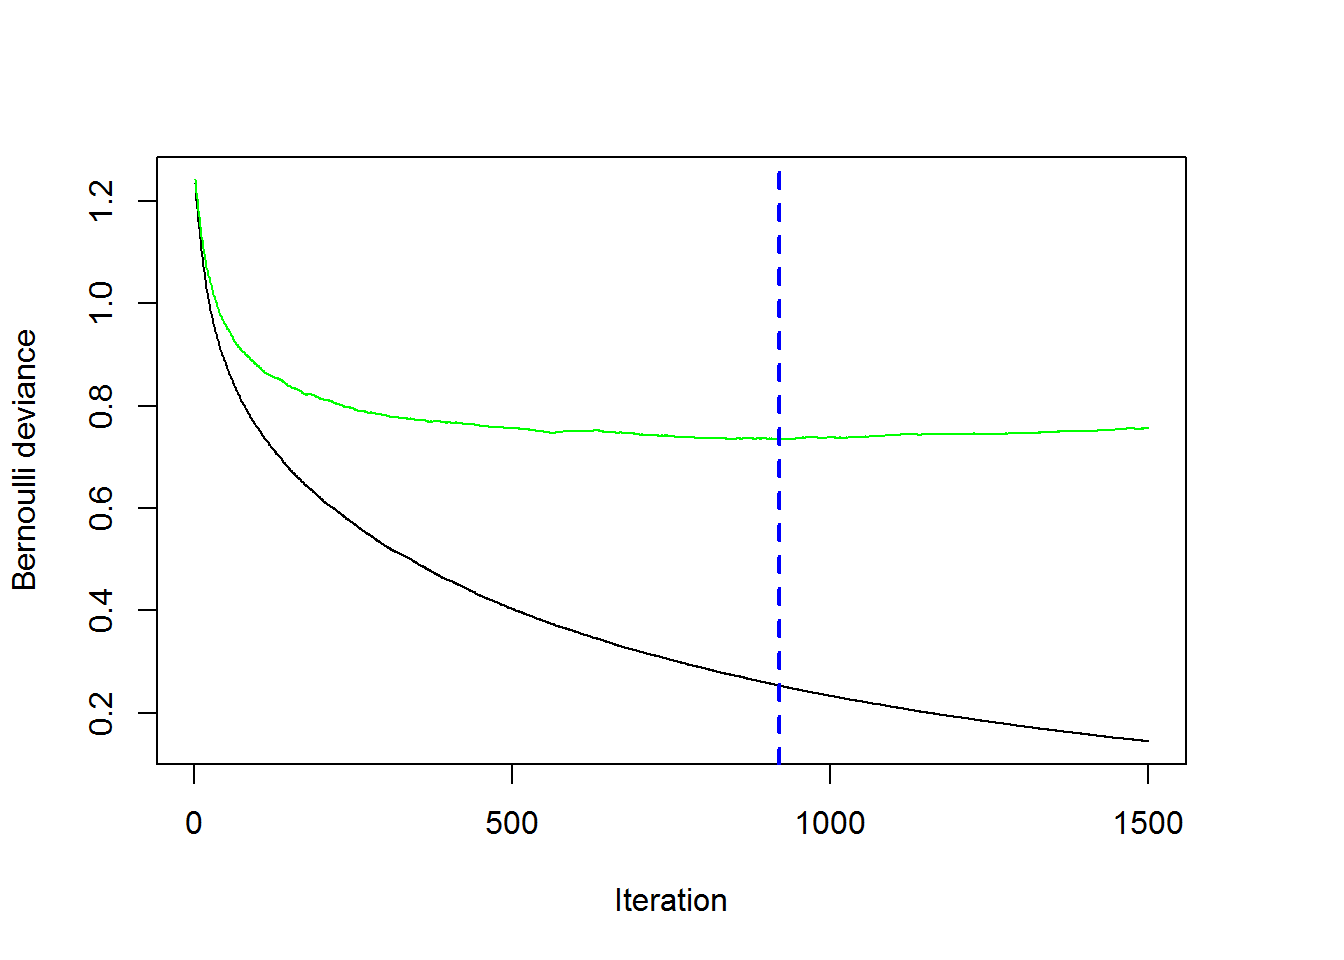
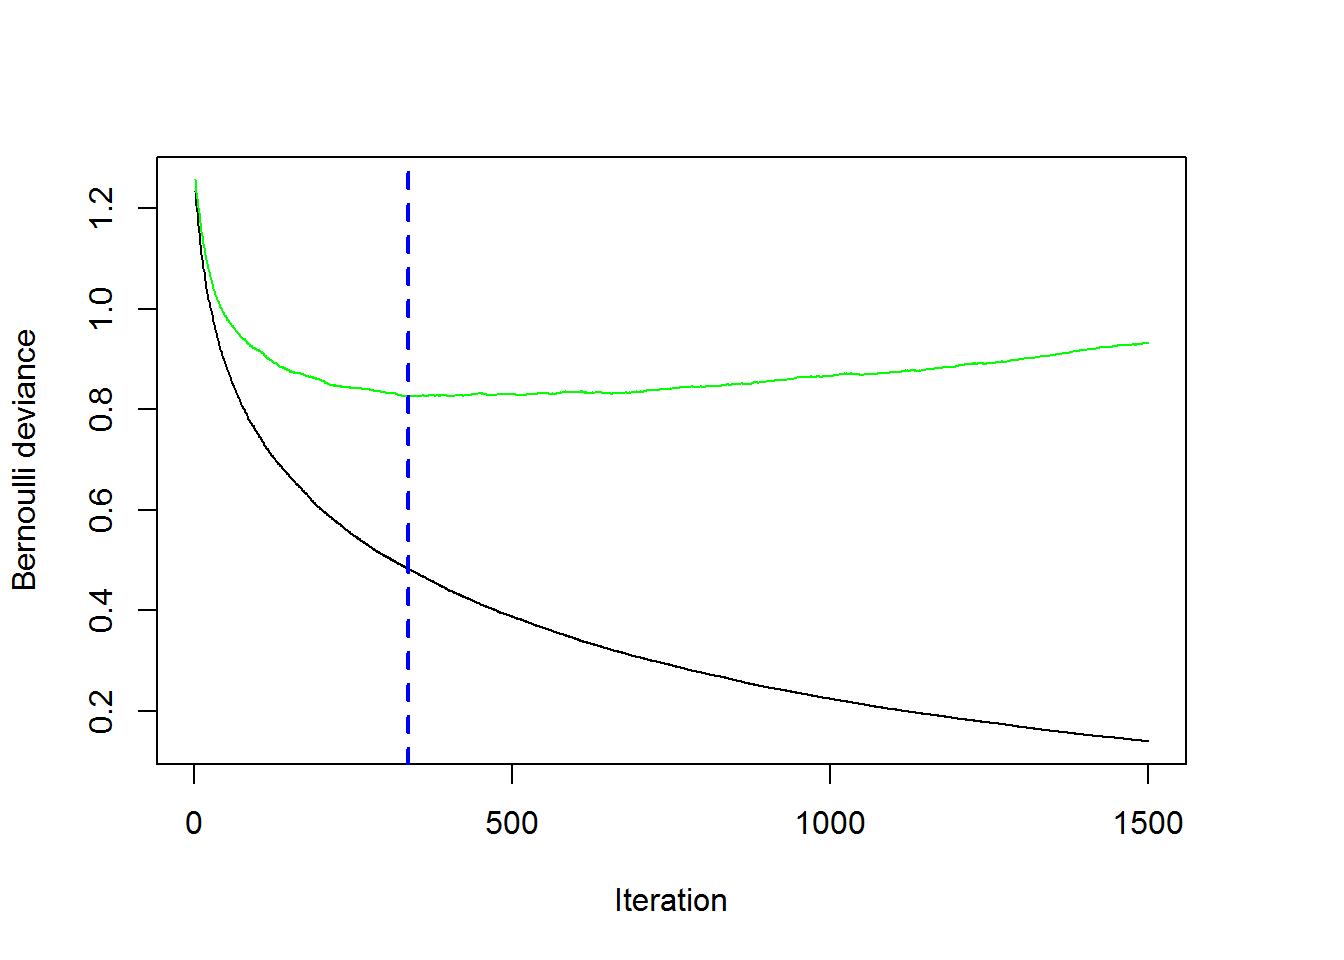
update to pkgdown docs

diff --git a/docs/articles/usage_of_the_personalized_package.html b/docs/articles/usage_of_the_personalized_package.html
@@ -51,10 +51,10 @@
     <div id="navbar" class="navbar-collapse collapse">
       <ul class="nav navbar-nav">
         <li>
-  <a href="../reference/index.html">Reference</a>
+  <a href="../articles/usage_of_the_personalized_package.html">Intro</a>
 </li>
 <li>
-  <a href="../articles/index.html">Articles</a>
+  <a href="../reference/index.html">Reference</a>
 </li>
       </ul>
       
@@ -242,6 +242,16 @@ validation</code></pre></div>
 </div>
 <div id="continuous-outcomes" class="section level3">
 <h3>Continuous Outcomes</h3>
+<div class="sourceCode"><pre class="sourceCode r"><code class="sourceCode r">subgrp.gbm &lt;-<span class="st"> </span><span class="kw">fit.subgroup</span>(<span class="dt">x =</span> x, <span class="dt">y =</span> y,
+                           <span class="dt">trt =</span> trt,
+                           <span class="dt">propensity.func =</span> prop.func,
+                           <span class="dt">family =</span> <span class="st">&quot;gaussian&quot;</span>,
+                           <span class="dt">loss =</span> <span class="st">&quot;sq_loss_gbm&quot;</span>,
+                           <span class="dt">shrinkage =</span> <span class="fl">0.025</span>,  <span class="co"># options for gbm</span>
+                           <span class="dt">n.trees =</span> <span class="dv">1500</span>, 
+                           <span class="dt">interaction.depth =</span> <span class="dv">3</span>,
+                           <span class="dt">cv.folds =</span> <span class="dv">5</span>)    </code></pre></div>
+<p><img src="usage_of_the_personalized_package_files/figure-html/contin_example-1.png" width="672" /></p>
 </div>
 <div id="binary-outcomes" class="section level3">
 <h3>Binary Outcomes</h3>
@@ -272,15 +282,15 @@ y.binary &lt;-<span class="st"> </span><span class="dv">1</span> *<span class="s
 ## 
 ## Average Outcomes:
 ##                Recommended Trt Recommended Ctrl
-## Received Trt  0.4505 (n = 333) 0.2179 (n = 257)
-## Received Ctrl 0.1858 (n = 226) 0.4565 (n = 184)
+## Received Trt  0.4662 (n = 311) 0.2079 (n = 279)
+## Received Ctrl 0.1727 (n = 220) 0.4579 (n = 190)
 ## 
 ##  Trt  Effect Among Recommended Trt Ctrl Effect Among Recommended Ctrl 
-##                   0.2646 (n = 559)                   0.2386 (n = 441) 
+##                   0.2935 (n = 531)                     0.25 (n = 469) 
 ## 
 ## Benefit score quantiles: 
 ##       0%      25%      50%      75%     100% 
-## -1.71039 -0.31334  0.07145  0.44287  1.55721</code></pre>
+## -1.70555 -0.34095  0.05583  0.43790  1.65791</code></pre>
 <div class="sourceCode"><pre class="sourceCode r"><code class="sourceCode r">subgrp.bin2</code></pre></div>
 <pre><code>## family:  binomial 
 ## loss:    logistic_loss_gbm 
@@ -288,15 +298,15 @@ y.binary &lt;-<span class="st"> </span><span class="dv">1</span> *<span class="s
 ## 
 ## Average Outcomes:
 ##                Recommended Trt Recommended Ctrl
-## Received Trt  0.9902 (n = 204) 0.0104 (n = 386)
-## Received Ctrl    0.5 (n = 114) 0.2331 (n = 296)
+## Received Trt  0.9314 (n = 175) 0.0964 (n = 415)
+## Received Ctrl 0.4444 (n = 117) 0.2491 (n = 293)
 ## 
 ##  Trt  Effect Among Recommended Trt Ctrl Effect Among Recommended Ctrl 
-##                   0.4902 (n = 318)                   0.2227 (n = 682) 
+##                    0.487 (n = 292)                   0.1528 (n = 708) 
 ## 
 ## Benefit score quantiles: 
 ##      0%     25%     50%     75%    100% 
-## -5.8487 -3.0579 -1.5847  0.6122  4.8357</code></pre>
+## -4.0159 -2.4191 -1.2596  0.3205  3.3901</code></pre>
 </div>
 <div id="time-to-event-outcomes" class="section level3">
 <h3>Time-to-event Outcomes</h3>
@@ -324,33 +334,42 @@ subgrp.cox &lt;-<span class="st"> </span><span class="kw">fit.subgroup</span>(<s
 ## 
 ## Average Outcomes:
 ##                  Recommended Trt   Recommended Ctrl
-## Received Trt  450.0395 (n = 291) 544.4105 (n = 299)
-## Received Ctrl 856.3652 (n = 202) 357.6865 (n = 208)
+## Received Trt  140.6078 (n = 279) 105.3219 (n = 311)
+## Received Ctrl 296.8005 (n = 206) 113.6357 (n = 204)
 ## 
 ##  Trt  Effect Among Recommended Trt Ctrl Effect Among Recommended Ctrl 
-##                -406.3257 (n = 493)                -186.7239 (n = 507) 
+##                -156.1927 (n = 485)                   8.3138 (n = 515) 
 ## 
 ## Benefit score quantiles: 
-##        0%       25%       50%       75%      100% 
-## -0.464795 -0.126504 -0.007506  0.119531  0.732182 
+##       0%      25%      50%      75%     100% 
+## -0.50597 -0.13781 -0.00853  0.12736  0.69997 
 ## 
 ## 7 variables selected by the lasso (cross validation criterion).
 ## 
-##         Estimate
-## V1   0.002572413
-## V2   0.047467290
-## V3  -0.009058425
-## V11 -0.027768974
-## V13  0.003981027
-## V47 -0.001620790
-## V50  0.015431938</code></pre>
+##          Estimate
+## V1   0.0066167829
+## V2   0.0508638244
+## V3  -0.0139605031
+## V11 -0.0296723660
+## V13  0.0001376352
+## V47 -0.0019639925
+## V50  0.0115445008</code></pre>
 </div>
 <div id="plotting" class="section level3">
 <h3>Plotting</h3>
+<div class="sourceCode"><pre class="sourceCode r"><code class="sourceCode r"><span class="kw">plot</span>(subgrp.gbm)</code></pre></div>
+<p><img src="usage_of_the_personalized_package_files/figure-html/plot_1-1.png" width="672" /></p>
+<div class="sourceCode"><pre class="sourceCode r"><code class="sourceCode r"><span class="kw">plot</span>(subgrp.gbm, <span class="dt">type =</span> <span class="st">&quot;density&quot;</span>)</code></pre></div>
+<p><img src="usage_of_the_personalized_package_files/figure-html/plot_2-1.png" width="672" /></p>
+<p>Compare the lasso model with the gradient-boosted decision trees model:</p>
+<div class="sourceCode"><pre class="sourceCode r"><code class="sourceCode r"><span class="kw">plotCompare</span>(subgrp.model, subgrp.gbm)</code></pre></div>
+<p><img src="usage_of_the_personalized_package_files/figure-html/plot_4-1.png" width="672" /></p>
 </div>
 </div>
 <div id="validating-subgroup-identification-models" class="section level2">
 <h2>Validating Subgroup Identification Models</h2>
+<p>An important aspect of estimating the impact of estimated subgroups is obtaining estimates of the treatment effect within the estimated subgroups. Ideally, the treatment should have a positive impact within the subgroup of patients who are recommended to the treatment and the control should have a positive impact within the subgroup of patients who were not recommended the treatment.</p>
+<p>Since our estimated subgroups are conditional on observing the outcomes of the patients, taking the average outcomes by treatment status within each subgroup to estimate the treatment effects within subgroups will yield biased and typically overly-optimistic estimates. Instead, we need to use resampling-based procedures to estimate these effects reliably.</p>
 <div id="repeated-trainingtest-splitting" class="section level3">
 <h3>Repeated Training/Test Splitting</h3>
 </div>

diff --git a/docs/index.html b/docs/index.html
@@ -29,10 +29,10 @@
     <div id="navbar" class="navbar-collapse collapse">
       <ul class="nav navbar-nav">
 <li>
-  <a href="reference/index.html">Reference</a>
+  <a href="articles/usage_of_the_personalized_package.html">Intro</a>
 </li>
 <li>
-  <a href="articles/index.html">Articles</a>
+  <a href="reference/index.html">Reference</a>
 </li>
       </ul>
 <ul class="nav navbar-nav navbar-right"></ul>

diff --git a/docs/reference/check.overlap.html b/docs/reference/check.overlap.html
@@ -51,10 +51,10 @@
     <div id="navbar" class="navbar-collapse collapse">
       <ul class="nav navbar-nav">
         <li>
-  <a href="../reference/index.html">Reference</a>
+  <a href="../articles/usage_of_the_personalized_package.html">Intro</a>
 </li>
 <li>
-  <a href="../articles/index.html">Articles</a>
+  <a href="../reference/index.html">Reference</a>
 </li>
       </ul>
       

diff --git a/docs/reference/fit.subgroup.html b/docs/reference/fit.subgroup.html
@@ -51,10 +51,10 @@
     <div id="navbar" class="navbar-collapse collapse">
       <ul class="nav navbar-nav">
         <li>
-  <a href="../reference/index.html">Reference</a>
+  <a href="../articles/usage_of_the_personalized_package.html">Intro</a>
 </li>
 <li>
-  <a href="../articles/index.html">Articles</a>
+  <a href="../reference/index.html">Reference</a>
 </li>
       </ul>
       

diff --git a/docs/reference/index.html b/docs/reference/index.html
@@ -51,10 +51,10 @@
     <div id="navbar" class="navbar-collapse collapse">
       <ul class="nav navbar-nav">
         <li>
-  <a href="../reference/index.html">Reference</a>
+  <a href="../articles/usage_of_the_personalized_package.html">Intro</a>
 </li>
 <li>
-  <a href="../articles/index.html">Articles</a>
+  <a href="../reference/index.html">Reference</a>
 </li>
       </ul>
       

diff --git a/docs/reference/plot.html b/docs/reference/plot.html
@@ -51,10 +51,10 @@
     <div id="navbar" class="navbar-collapse collapse">
       <ul class="nav navbar-nav">
         <li>
-  <a href="../reference/index.html">Reference</a>
+  <a href="../articles/usage_of_the_personalized_package.html">Intro</a>
 </li>
 <li>
-  <a href="../articles/index.html">Articles</a>
+  <a href="../reference/index.html">Reference</a>
 </li>
       </ul>
       

diff --git a/docs/reference/plotCompare.html b/docs/reference/plotCompare.html
@@ -51,10 +51,10 @@
     <div id="navbar" class="navbar-collapse collapse">
       <ul class="nav navbar-nav">
         <li>
-  <a href="../reference/index.html">Reference</a>
+  <a href="../articles/usage_of_the_personalized_package.html">Intro</a>
 </li>
 <li>
-  <a href="../articles/index.html">Articles</a>
+  <a href="../reference/index.html">Reference</a>
 </li>
       </ul>
       

diff --git a/docs/reference/predict.html b/docs/reference/predict.html
@@ -51,10 +51,10 @@
     <div id="navbar" class="navbar-collapse collapse">
       <ul class="nav navbar-nav">
         <li>
-  <a href="../reference/index.html">Reference</a>
+  <a href="../articles/usage_of_the_personalized_package.html">Intro</a>
 </li>
 <li>
-  <a href="../articles/index.html">Articles</a>
+  <a href="../reference/index.html">Reference</a>
 </li>
       </ul>
       

diff --git a/docs/reference/print.html b/docs/reference/print.html
@@ -51,10 +51,10 @@
     <div id="navbar" class="navbar-collapse collapse">
       <ul class="nav navbar-nav">
         <li>
-  <a href="../reference/index.html">Reference</a>
+  <a href="../articles/usage_of_the_personalized_package.html">Intro</a>
 </li>
 <li>
-  <a href="../articles/index.html">Articles</a>
+  <a href="../reference/index.html">Reference</a>
 </li>
       </ul>
       

diff --git a/docs/reference/subgroup.effects.html b/docs/reference/subgroup.effects.html
@@ -51,10 +51,10 @@
     <div id="navbar" class="navbar-collapse collapse">
       <ul class="nav navbar-nav">
         <li>
-  <a href="../reference/index.html">Reference</a>
+  <a href="../articles/usage_of_the_personalized_package.html">Intro</a>
 </li>
 <li>
-  <a href="../articles/index.html">Articles</a>
+  <a href="../reference/index.html">Reference</a>
 </li>
       </ul>
       

diff --git a/docs/reference/summary.html b/docs/reference/summary.html
@@ -51,10 +51,10 @@
     <div id="navbar" class="navbar-collapse collapse">
       <ul class="nav navbar-nav">
         <li>
-  <a href="../reference/index.html">Reference</a>
+  <a href="../articles/usage_of_the_personalized_package.html">Intro</a>
 </li>
 <li>
-  <a href="../articles/index.html">Articles</a>
+  <a href="../reference/index.html">Reference</a>
 </li>
       </ul>
       

diff --git a/docs/reference/validate.subgroup.html b/docs/reference/validate.subgroup.html
@@ -51,10 +51,10 @@
     <div id="navbar" class="navbar-collapse collapse">
       <ul class="nav navbar-nav">
         <li>
-  <a href="../reference/index.html">Reference</a>
+  <a href="../articles/usage_of_the_personalized_package.html">Intro</a>
 </li>
 <li>
-  <a href="../articles/index.html">Articles</a>
+  <a href="../reference/index.html">Reference</a>
 </li>
       </ul>
       
